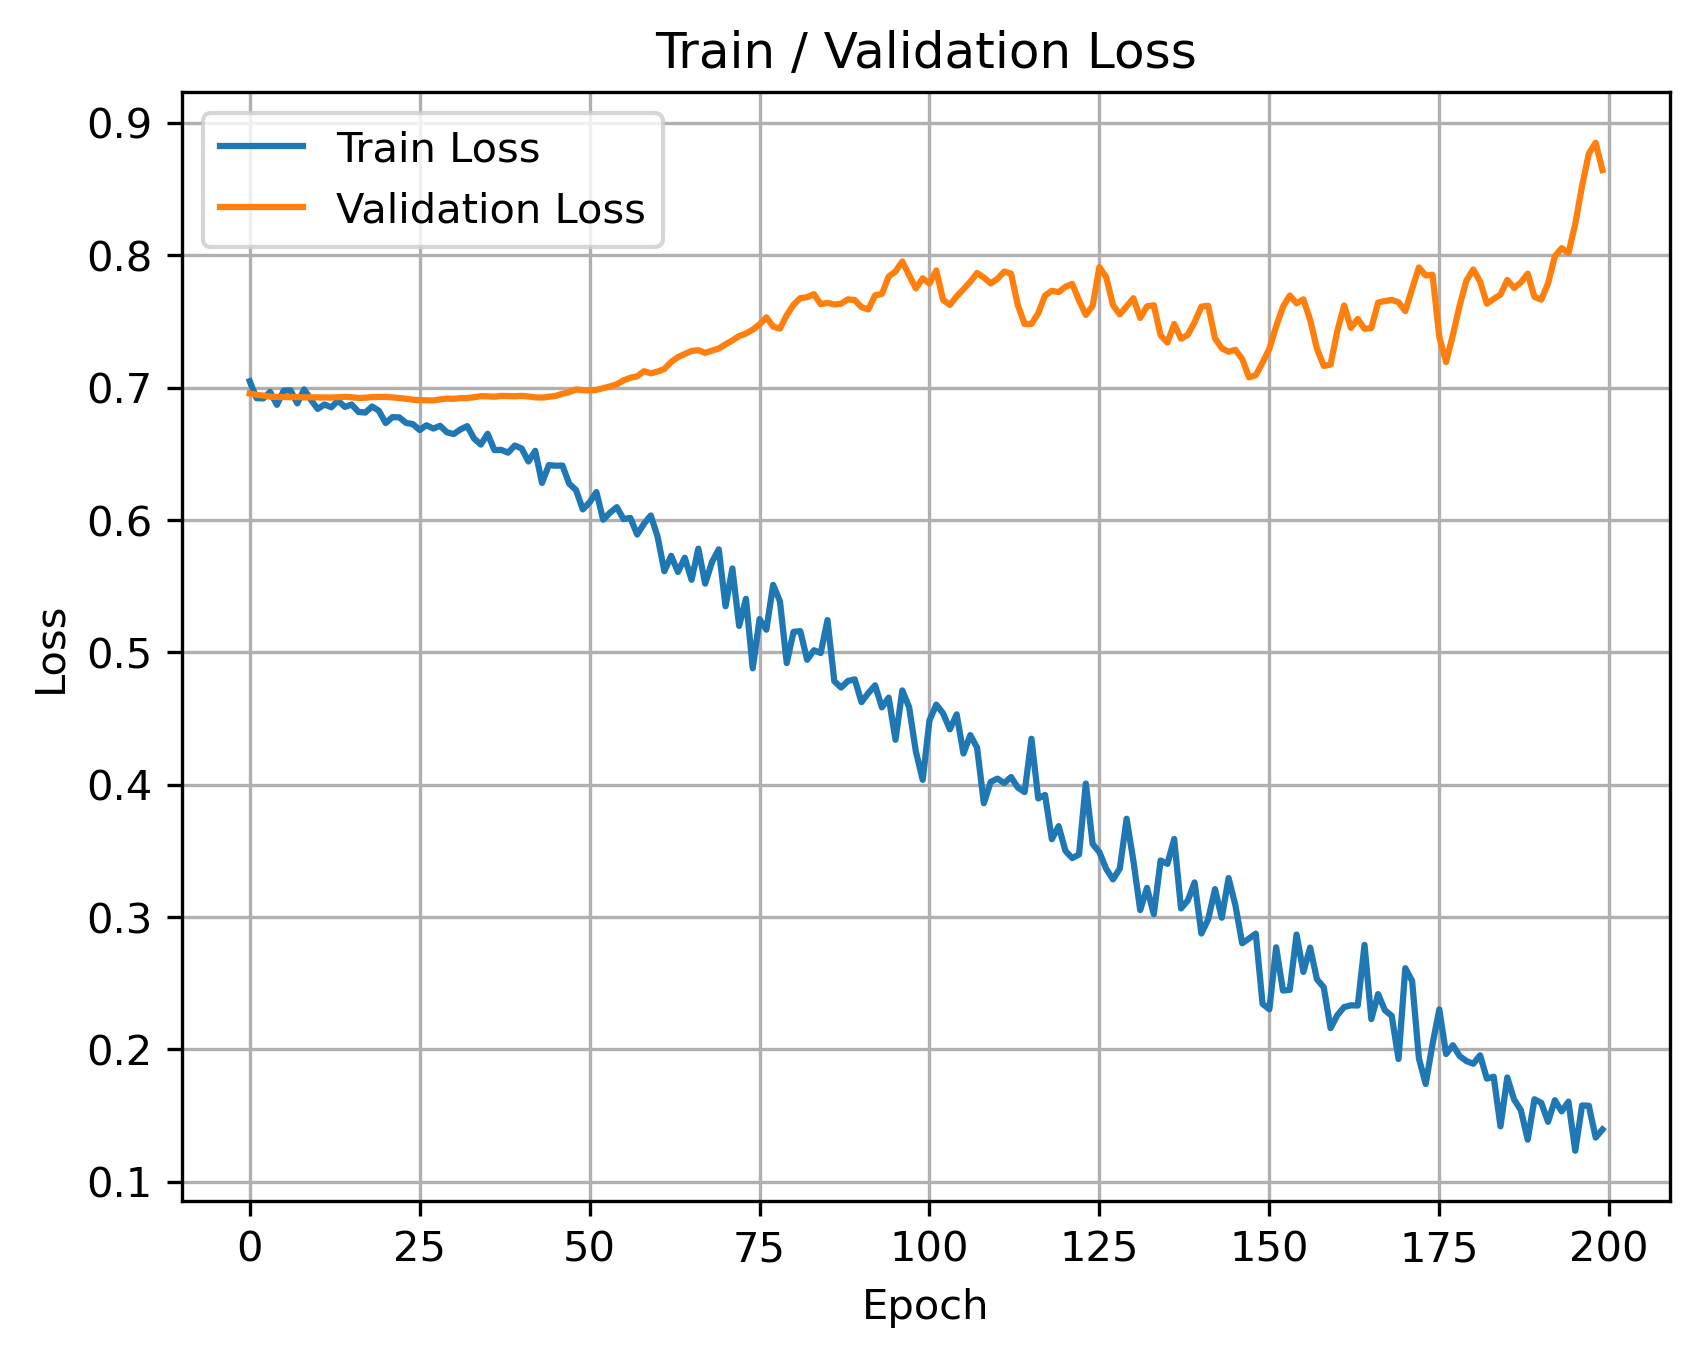
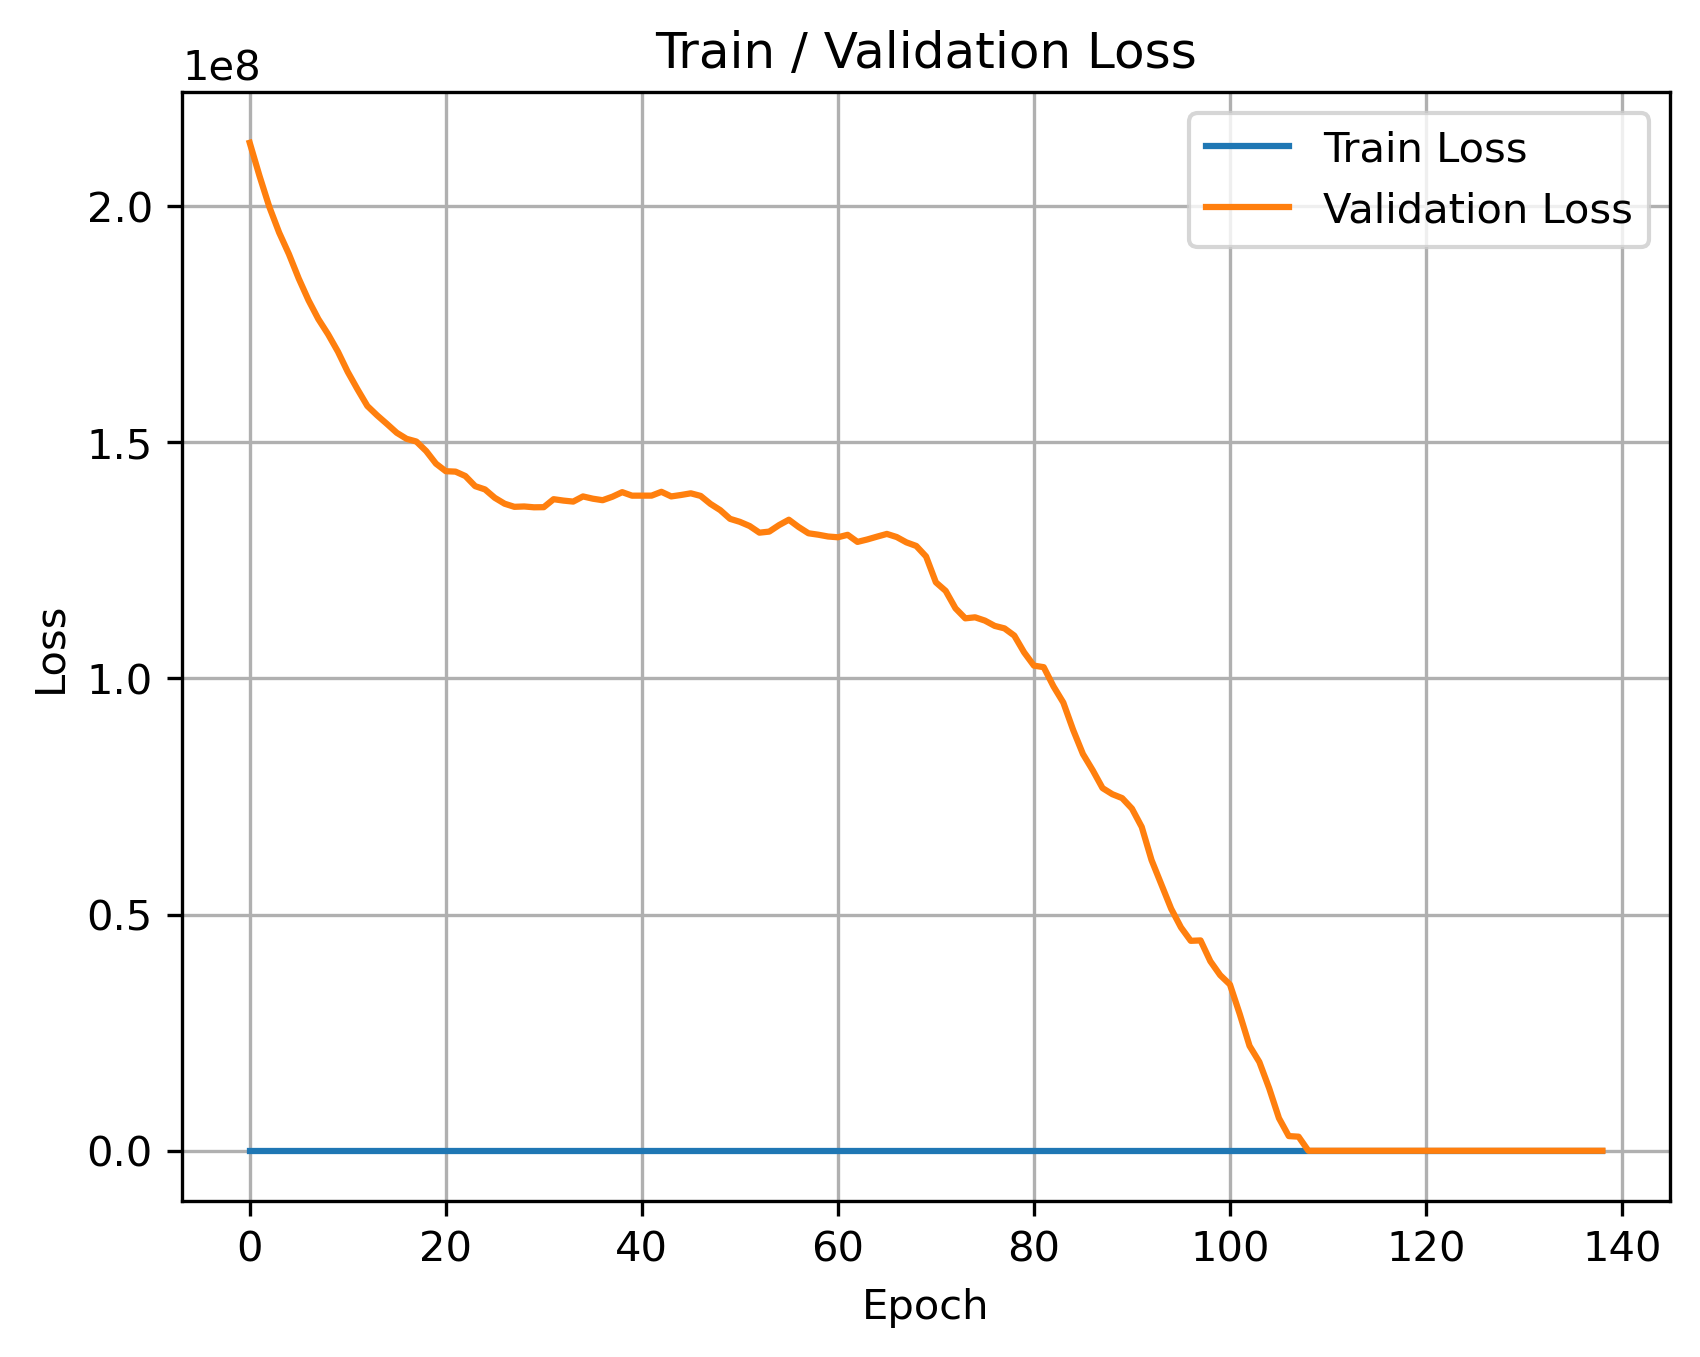
edit file path

diff --git a/lecture_5/DNN_binary_classification_v2.py b/lecture_5/DNN_binary_classification_v2.py
@@ -1,0 +1,321 @@
+# -*- coding: utf-8 -*-
+# Author: Myungwon Seo
+
+import os
+import random
+import numpy as np
+import pandas as pd
+import tensorflow as tf
+import tensorflow.keras as keras
+import matplotlib.pyplot as plt
+
+from sklearn.preprocessing import MinMaxScaler
+from sklearn.model_selection import train_test_split
+from sklearn.metrics import (
+    confusion_matrix,
+    accuracy_score,
+    precision_score,
+    recall_score,
+    f1_score,
+    roc_auc_score,
+    average_precision_score,
+    balanced_accuracy_score,
+    matthews_corrcoef
+)
+from imblearn.over_sampling import SMOTE
+from tensorflow.keras.callbacks import EarlyStopping
+from collections import Counter
+
+# =========================================================
+# 1. Seed 설정
+# =========================================================
+seed = 2023
+random.seed(seed)
+np.random.seed(seed)
+tf.random.set_seed(seed)
+os.environ["PYTHONHASHSEED"] = str(seed)
+
+# =========================================================
+# 2. 파일 경로
+# =========================================================
+input_file = "C:\\Users\\mwseo\\PycharmProjects\\LAIDD_SMW\\dataset\\NPASS_NPT204_RDKit_activity_output.xlsx"
+output_file = "C:\\Users\\mwseo\\PycharmProjects\\LAIDD_SMW\\dataset\\lecture_5_output\\NPASS_NPT204_RDKit_activity_output_DNN.xlsx"
+plot_dir = "C:\\Users\\mwseo\\PycharmProjects\\LAIDD_SMW\\dataset\\lecture_5_output\\"
+
+os.makedirs(plot_dir, exist_ok=True)
+
+# =========================================================
+# 3. 데이터 불러오기
+# =========================================================
+df = pd.read_excel(input_file)
+
+X = df.iloc[:, 5:111].values
+y = df["label_classification"].values.astype(int)
+
+# =========================================================
+# 4. Train / Test split
+#    중요: stratify 적용
+# =========================================================
+train_input, test_input, train_label, test_label = train_test_split(
+    X,
+    y,
+    test_size=0.2,
+    random_state=seed,
+    stratify=y
+)
+
+# =========================================================
+# 5. Normalization
+#    중요: train에만 fit, test에는 transform
+# =========================================================
+scaler = MinMaxScaler()
+train_input = scaler.fit_transform(train_input)
+test_input = scaler.transform(test_input)
+
+
+print("Before SMOTE:", Counter(train_label))
+n0 = Counter(train_label)[0]
+n1 = Counter(train_label)[1]
+
+minority = min(n0, n1)
+majority = max(n0, n1)
+
+current_ratio = minority / majority
+print("Current minority/majority ratio:", current_ratio)
+
+# =========================================================
+# 6. SMOTE
+#    중요: train set에만 적용
+# =========================================================
+#smote = SMOTE(random_state=seed, sampling_strategy="auto")
+smote = SMOTE(random_state=seed, sampling_strategy=0.5)
+train_input, train_label = smote.fit_resample(train_input, train_label)
+
+# float 변환
+train_input = train_input.astype("float32")
+test_input = test_input.astype("float32")
+train_label = train_label.astype("float32")
+test_label = test_label.astype("float32")
+
+# =========================================================
+# 7. 하이퍼파라미터
+# =========================================================
+learning_rate = 0.0001
+n_epoch = 200
+n_batch = 16
+n_features = train_input.shape[1]
+
+# =========================================================
+# 8. Dataset 구성
+#    repeat(), steps_per_epoch, validation_steps 사용하지 않음
+# =========================================================
+train_dataset = (
+    tf.data.Dataset.from_tensor_slices((train_input, train_label))
+    .shuffle(buffer_size=len(train_input), seed=seed)
+    .batch(n_batch)
+    .prefetch(tf.data.AUTOTUNE)
+)
+
+test_dataset = (
+    tf.data.Dataset.from_tensor_slices((test_input, test_label))
+    .batch(n_batch)
+    .prefetch(tf.data.AUTOTUNE)
+)
+
+# =========================================================
+# 9. DNN 모델 생성
+#    이진분류: 출력 노드 1개 + sigmoid
+# =========================================================
+def create_model():
+    model = keras.Sequential()
+
+    model.add(keras.layers.Input(shape=(n_features,)))
+
+    model.add(keras.layers.Dense(128, activation="relu"))
+    model.add(keras.layers.Dropout(0.1))
+
+    model.add(keras.layers.Dense(128, activation="relu"))
+    model.add(keras.layers.Dropout(0.1))
+
+    model.add(keras.layers.Dense(128, activation="relu"))
+    model.add(keras.layers.Dropout(0.1))
+
+    model.add(keras.layers.Dense(1, activation="sigmoid"))
+
+    return model
+
+model = create_model()
+
+model.compile(
+    optimizer=tf.keras.optimizers.Adam(learning_rate=learning_rate),
+    loss="binary_crossentropy",
+    metrics=[
+        "accuracy",
+        tf.keras.metrics.AUC(name="auc")
+    ]
+)
+
+model.summary()
+
+# =========================================================
+# 10. EarlyStopping
+# =========================================================
+early_stop = EarlyStopping(
+    monitor="val_loss",
+    patience=30,
+    restore_best_weights=True,
+    verbose=1
+)
+
+# =========================================================
+# 11. 모델 학습
+# =========================================================
+history = model.fit(
+    train_dataset,
+    epochs=n_epoch,
+    validation_data=test_dataset,
+    callbacks=[early_stop]
+)
+
+# =========================================================
+# 12. 학습 곡선 저장
+# =========================================================
+
+# Accuracy
+plt.figure()
+plt.plot(history.history["accuracy"], label="Train Accuracy")
+plt.plot(history.history["val_accuracy"], label="Validation Accuracy")
+plt.xlabel("Epoch")
+plt.ylabel("Accuracy")
+plt.title("Train / Validation Accuracy")
+plt.legend()
+plt.grid(True)
+plt.savefig(os.path.join(plot_dir, "accuracy_curve.png"), dpi=300, bbox_inches="tight")
+plt.show()
+
+# AUC
+plt.figure()
+plt.plot(history.history["auc"], label="Train AUC")
+plt.plot(history.history["val_auc"], label="Validation AUC")
+plt.xlabel("Epoch")
+plt.ylabel("AUC")
+plt.title("Train / Validation AUC")
+plt.legend()
+plt.grid(True)
+plt.savefig(os.path.join(plot_dir, "auc_curve.png"), dpi=300, bbox_inches="tight")
+plt.show()
+
+# Loss
+plt.figure()
+plt.plot(history.history["loss"], label="Train Loss")
+plt.plot(history.history["val_loss"], label="Validation Loss")
+plt.xlabel("Epoch")
+plt.ylabel("Loss")
+plt.title("Train / Validation Loss")
+plt.legend()
+plt.grid(True)
+plt.savefig(os.path.join(plot_dir, "loss_curve.png"), dpi=300, bbox_inches="tight")
+plt.show()
+
+# Best epoch 표시 Loss 그래프
+best_epoch = np.argmin(history.history["val_loss"]) + 1
+best_val_loss = np.min(history.history["val_loss"])
+
+plt.figure()
+plt.plot(history.history["loss"], label="Train Loss")
+plt.plot(history.history["val_loss"], label="Validation Loss")
+plt.axvline(best_epoch, linestyle="--", label=f"Best Epoch: {best_epoch}")
+plt.xlabel("Epoch")
+plt.ylabel("Loss")
+plt.title("Train / Validation Loss with Best Epoch")
+plt.legend()
+plt.grid(True)
+plt.savefig(os.path.join(plot_dir, "loss_curve_with_best_epoch.png"), dpi=300, bbox_inches="tight")
+plt.show()
+
+print(f"Best epoch based on val_loss: {best_epoch}")
+print(f"Best val_loss: {best_val_loss:.4f}")
+
+# =========================================================
+# 13. 예측 및 성능 평가
+# =========================================================
+threshold = 0.5
+
+train_prob = model.predict(train_input).ravel()
+test_prob = model.predict(test_input).ravel()
+
+train_pred = (train_prob >= threshold).astype(int)
+test_pred = (test_prob >= threshold).astype(int)
+
+# Confusion matrix
+test_cm = confusion_matrix(test_label.astype(int), test_pred)
+tn, fp, fn, tp = test_cm.ravel()
+
+# Train metrics
+train_acc = accuracy_score(train_label, train_pred)
+train_auc = roc_auc_score(train_label, train_prob)
+train_prauc = average_precision_score(train_label, train_prob)
+
+# Test metrics
+test_acc = accuracy_score(test_label, test_pred)
+test_precision = precision_score(test_label, test_pred, zero_division=0)
+test_auc = roc_auc_score(test_label, test_prob)
+test_prauc = average_precision_score(test_label, test_prob)
+test_sen = recall_score(test_label, test_pred, zero_division=0)
+test_spe = tn / (tn + fp) if (tn + fp) > 0 else 0
+test_ba = balanced_accuracy_score(test_label, test_pred)
+test_f1 = f1_score(test_label, test_pred, zero_division=0)
+test_mcc = matthews_corrcoef(test_label, test_pred)
+
+# =========================================================
+# 14. 결과 출력
+# =========================================================
+print("\n=== Train Performance ===")
+print("Train ACC:", round(train_acc, 4))
+print("Train AUC:", round(train_auc, 4))
+print("Train PRAUC:", round(train_prauc, 4))
+
+print("\n=== Test Performance ===")
+print("Test ACC:", round(test_acc, 4))
+print("Test Precision:", round(test_precision, 4))
+print("Test AUC:", round(test_auc, 4))
+print("Test PRAUC:", round(test_prauc, 4))
+print("Test Sensitivity:", round(test_sen, 4))
+print("Test Specificity:", round(test_spe, 4))
+print("Test Balanced Accuracy:", round(test_ba, 4))
+print("Test F1:", round(test_f1, 4))
+print("Test MCC:", round(test_mcc, 4))
+
+print("\nConfusion Matrix")
+print(test_cm)
+
+# =========================================================
+# 15. 결과 저장
+# =========================================================
+final_df = pd.DataFrame({
+    "Random Seed": [seed],
+    "Threshold": [threshold],
+    "Best Epoch": [best_epoch],
+    "Best Val Loss": [best_val_loss],
+    "Train ACC": [train_acc],
+    "Train AUC": [train_auc],
+    "Train PRAUC": [train_prauc],
+    "Test ACC": [test_acc],
+    "Test Precision": [test_precision],
+    "Test AUC": [test_auc],
+    "Test PRAUC": [test_prauc],
+    "Test Sensitivity": [test_sen],
+    "Test Specificity": [test_spe],
+    "Test Balanced Accuracy": [test_ba],
+    "Test F1": [test_f1],
+    "Test MCC": [test_mcc],
+    "TN": [tn],
+    "FP": [fp],
+    "FN": [fn],
+    "TP": [tp]
+})
+
+final_df.to_excel(output_file, index=False)
+
+print("\n결과 저장 완료:")
+print(output_file)